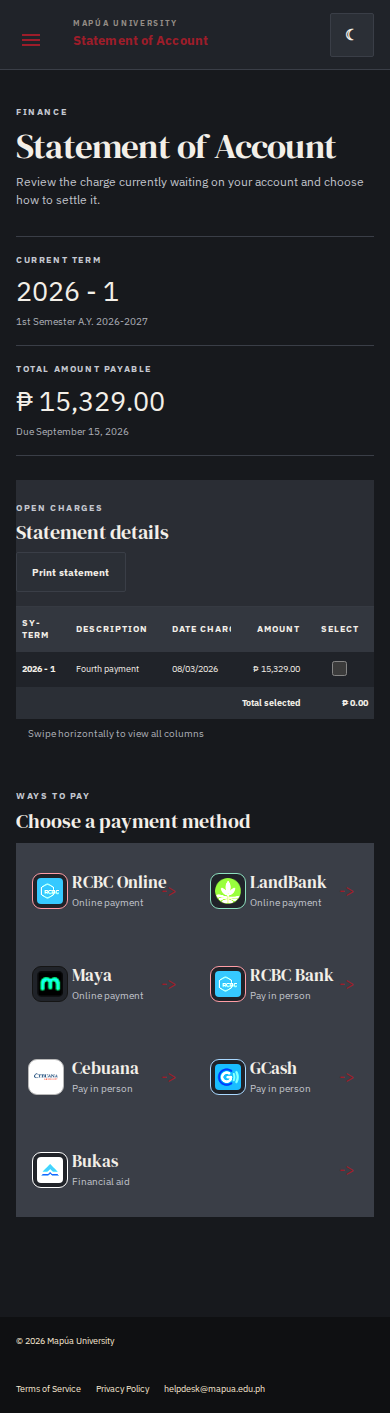
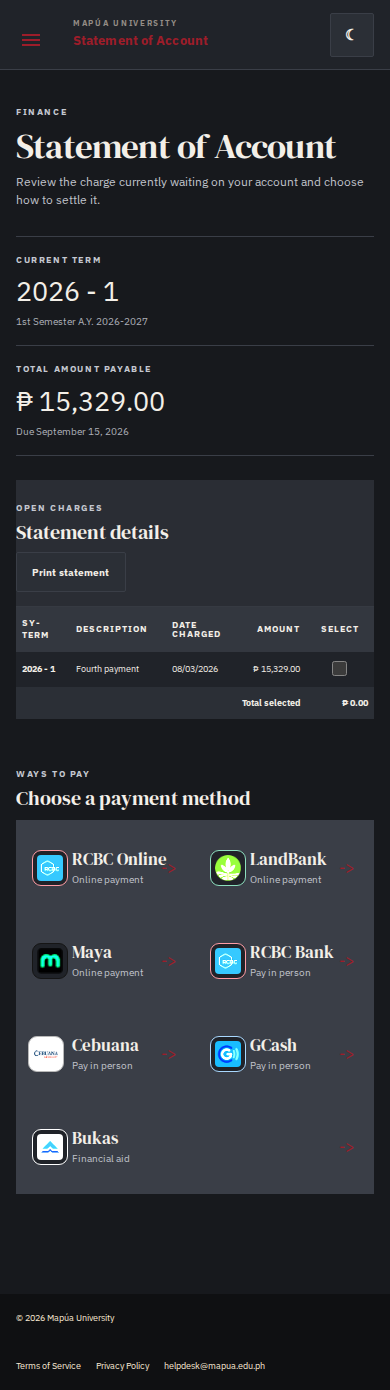
polish mobile SOA spacing

diff --git a/mobile-fixes.css b/mobile-fixes.css
@@ -1583,6 +1583,31 @@ html[data-theme="dark"] .content.schedule-full-view .schedule-table .class-block
     }
   }
 
+  @media (max-width: 800px) {
+    .content .soa-table::after {
+      display: none;
+    }
+
+    .content .soa-table table thead th:nth-child(3) {
+      white-space: normal !important;
+      line-height: 1.1 !important;
+    }
+
+    .content .soa-table table tbody td:nth-child(3) {
+      white-space: nowrap !important;
+    }
+
+    .content .soa-table table th:nth-child(5),
+    .content .soa-table table td:nth-child(5) {
+      text-align: right !important;
+    }
+
+    .content .soa-table table th:nth-child(6),
+    .content .soa-table table td:nth-child(6) {
+      text-align: center !important;
+    }
+  }
+
   /* Keep transaction history focused on the fields students scan most. */
   @media (max-width: 800px) {
     .content .payment-history-table {

diff --git a/index.html b/index.html
@@ -7,7 +7,7 @@
   <title>myMapúa | Student Portal</title>
   <link rel="icon" type="image/png" href="assets/mapua.png" />
   <link rel="stylesheet" href="styles.css?v=20260928-0200" />
-  <link rel="stylesheet" href="mobile-fixes.css?v=20260928-0300" />
+  <link rel="stylesheet" href="mobile-fixes.css?v=20260928-0400" />
   <script src="node_modules/html2canvas/dist/html2canvas.min.js"></script>
   <script src="node_modules/jspdf/dist/jspdf.umd.min.js"></script>
 </head>
